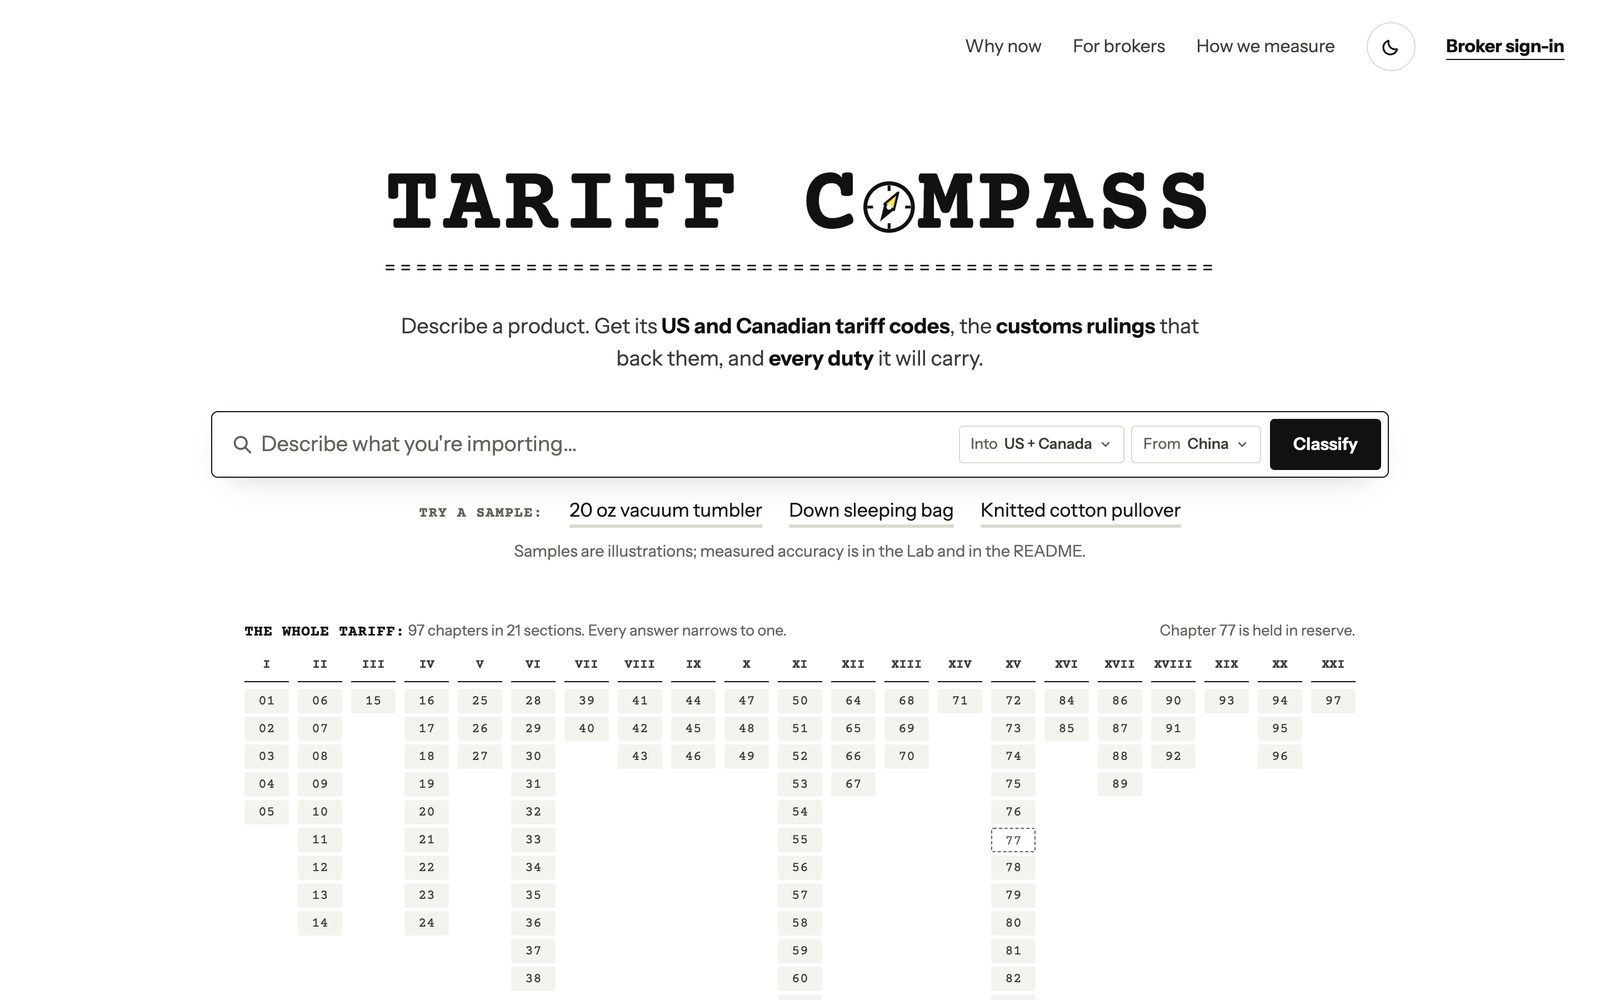
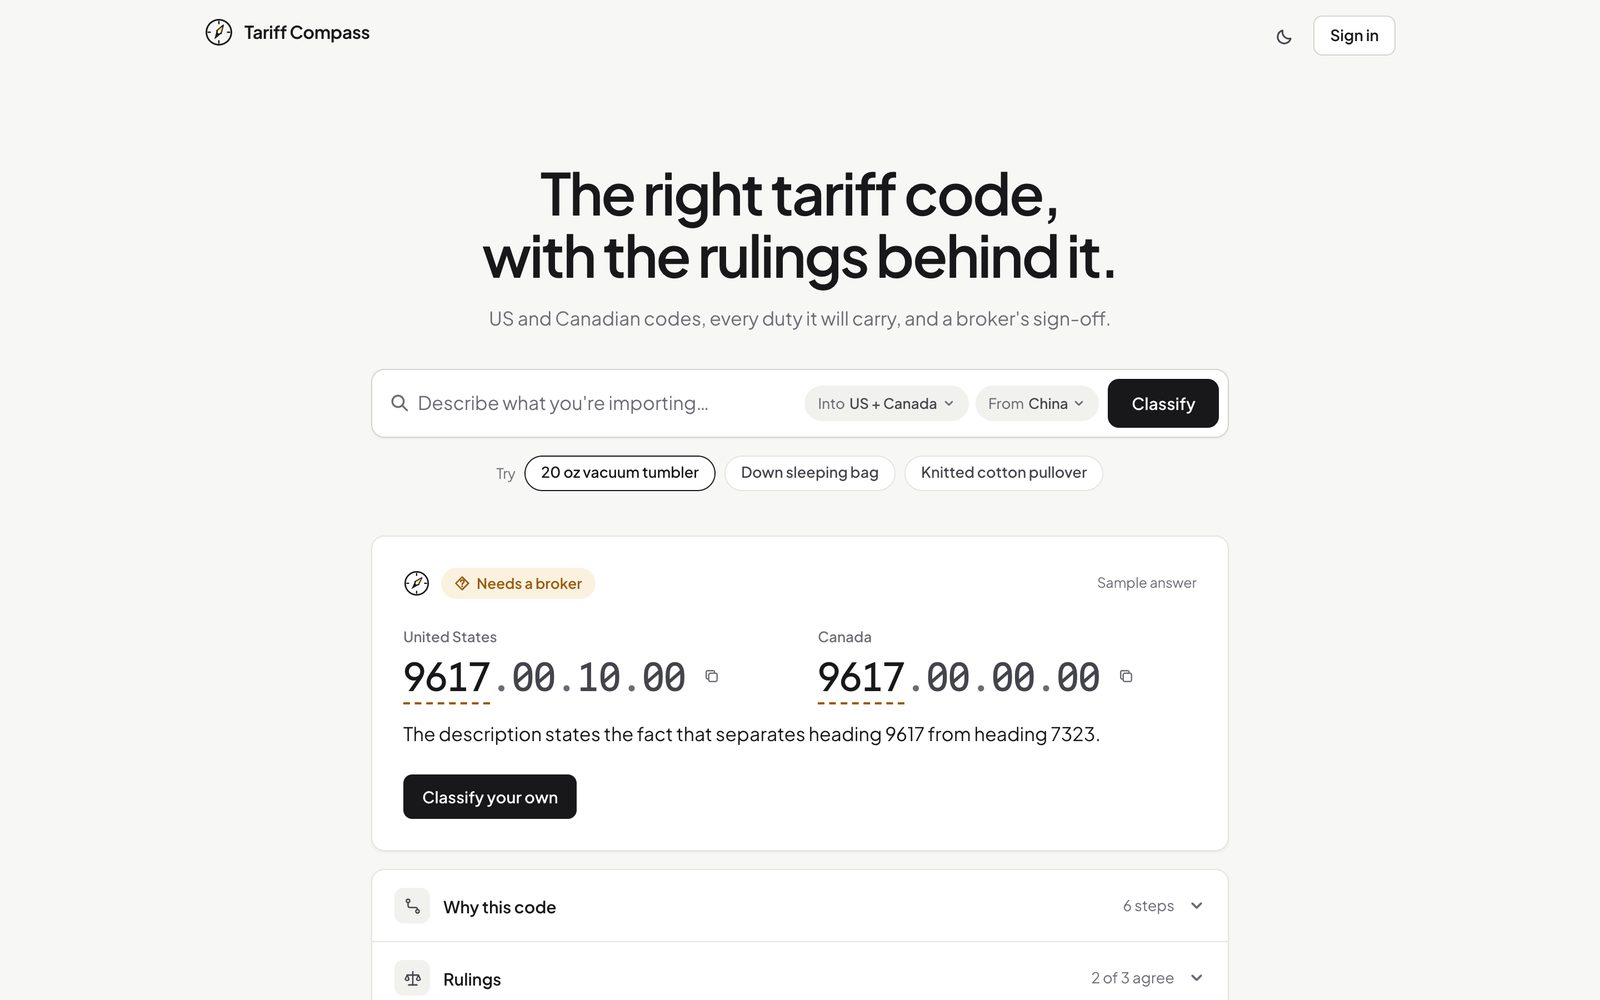
docs: README, screen contract and design notes for the calm redesign, with new screenshots

diff --git a/README.md b/README.md
@@ -4,9 +4,9 @@
 
 **The tariff code for US and Canadian imports, with the customs rulings that back it and every duty it will carry.**
 
-Describe a product and Tariff Compass proposes its ten-digit US and Canadian tariff codes, explains why in the shape
-of a customs ruling letter, cites the real CBP rulings it relies on and lists every duty on the shipment with its
-source and date. When it isn't sure, it says so and sends the product to your broker. Nothing is ever filed for you.
+Describe a product and Tariff Compass proposes its ten-digit US and Canadian tariff codes with one line of why, and
+keeps the detail one click behind it: the classification path, the real CBP rulings it relies on, every duty on the
+shipment with its source and date, the facts and the law text. When it isn't sure, it says so and sends the product to your broker. Nothing is ever filed for you.
 
 [Problem statement](docs/PROBLEM_STATEMENT.md) · [Architecture](docs/ARCHITECTURE.md) · [API contract](docs/API_CONTRACT.md) · [Data](docs/DATA.md) · [Model card](docs/MODEL_CARD.md) · [Evaluation](eval/RESULTS.md) · [Decisions](docs/adr/) · [Design](frontend/DESIGN.md)
 
@@ -43,19 +43,19 @@ Every screen uses the sample organisations (Northbound Goods Co. and Driftwood C
 
 | | |
 |---|---|
-| ![The front page: one box, the 97 chapters of the tariff as the horizon, and three sample products to try without signing in.](docs/screenshots/01-landing.jpg) | ![The answer as a ruling memo, with citation 1 unfolded in place: the ruling's holding and a fact-by-fact comparison with the product.](docs/screenshots/02-answer-citation-drawer.jpg) |
-| **Front page.** One box, the 97 chapters of the tariff as the horizon, and three sample products to try without signing in. | **The answer.** A ruling-shaped memo; citation 1 unfolds in place with the ruling's holding and a fact-by-fact comparison. |
-| ![The landed-cost receipt: each duty layer with its rate, amount, Chapter 99 number, source and effective date; IEEPA lines marked as pending at the Supreme Court.](docs/screenshots/03-landed-cost.jpg) | ![Your product against HQ H303684 side by side: where the facts match and where they differ.](docs/screenshots/04-compare.jpg) |
+| ![The front page: one promise, one box, three sample products and a live sample answer below.](docs/screenshots/01-landing.jpg) | ![The answer with its first cited ruling open in a drawer: the holding and a fact-by-fact comparison with the product.](docs/screenshots/02-answer-citation-drawer.jpg) |
+| **Front page.** One box, three samples to try without signing in, and a live sample answer underneath. | **The answer.** Codes and one line of why first; a cited ruling opens in a drawer with its holding and a fact-by-fact comparison. |
+| ![The landed-cost layer: three totals, one stacked bar and each duty with its rate and amount; IEEPA lines marked as pending at the Supreme Court.](docs/screenshots/03-landed-cost.jpg) | ![Your product against HQ H303684 side by side: where the facts match and where they differ.](docs/screenshots/04-compare.jpg) |
 | **Landed cost.** Every layer with its source and date; the IEEPA lines are marked as pending at the Supreme Court. | **Compare.** Your product against a cited ruling, side by side, fact by fact. |
-| ![A broker corrects a power bank's code digit by digit, with a required reason and what the next training round will learn.](docs/screenshots/05-docket-correction.jpg) | ![The 20 oz tumbler's binder as a revision matrix: four versions, who decided each one and the rulings it relied on.](docs/screenshots/06-binder.jpg) |
-| **Broker docket.** A correction typed digit by digit, with a required reason and what the next round will learn. | **Product binder.** Every version of the code, who decided and on what authority, kept until 10 Feb 2032. |
-| ![The watch bulletin: the pending IEEPA case, 2026 HTSUS Revision 3 and other dated changes, with the products each one touches.](docs/screenshots/07-watch.jpg) | ![The Lab: word matching in use, training rounds 4 to 7 as challengers that didn't pass their checks.](docs/screenshots/08-lab.jpg) |
+| ![A broker corrects a power bank's code digit by digit in the decision drawer, with a required reason and what the next training round will learn.](docs/screenshots/05-docket-correction.jpg) | ![The 20 oz tumbler's binder: the current codes first, then four versions in its history, who decided each one and what changed.](docs/screenshots/06-binder.jpg) |
+| **Review.** A correction typed digit by digit in the decision drawer, with a required reason and what the next round will learn. | **Product binder.** The current code first; every version, who decided and what changed, behind it. |
+| ![Watch: the pending IEEPA case, 2026 HTSUS Revision 3 and other dated changes, with the products each one touches.](docs/screenshots/07-watch.jpg) | ![The Lab: word matching in use, training rounds 4 to 7 as challengers that didn't pass their checks.](docs/screenshots/08-lab.jpg) |
 | **Watch.** Dated changes and the products they touch, the pending IEEPA case first. | **Lab.** What is in use, and every training round measured against it on rulings it hasn't seen. |
 
 ## Features
 
 **Classify.** Type a description, paste a listing, drop a spec sheet (PDF) or a photo, choose *Into* (US, Canada or
-both) and *Made in*. The answer opens with a holding band: the US HTSUS and Canadian Customs Tariff ten-digit codes,
+both) and *Made in*. The answer opens with one card: the US HTSUS and Canadian Customs Tariff ten-digit codes,
 a confidence word (**Strong match** or **Needs a broker**, never a percentage), the one fact that would decide it
 when it is unsure ("Is there a vacuum between the walls, or only air?") and, where a neighbouring code is plausible,
 **Also possible** with the condition under which it would apply and the duty at stake ("US$4,350.00 more in US
@@ -63,12 +63,11 @@ duty and fees on this shipment" if the tumbler has only air between its walls). 
 "Strong match" is held to a strict statistical bar; today word matching never reaches it, so every answer says
 **Needs a broker** and a broker confirms each code.
 
-**The answer as a ruling letter.** Below the codes the memo follows the shape of a CBP ruling: ¶0 *In short*, ¶1
-*Facts* (each with where it came from: your words, the spec sheet, the photo), ¶2 *Issue*, ¶3 *Law and analysis*
-(Section → Chapter → Heading → Subheading → statistical suffix, the General Rule of Interpretation applied at each
-step and why each neighbour was set aside), ¶4 *Landed cost* and ¶5 *Authorities cited*. Every sentence carries
-numbered citations; each opens in place with the ruling's holding, status and a fact-by-fact comparison, and
-**Compare side by side** opens a two-pane view of your product against the letter.
+**The answer first, the detail behind it.** Under the card sit five rows you open as needed: *Why this code*
+(Section → Chapter → Heading → Subheading → statistical suffix, the General Rule of Interpretation at each step and
+why each neighbour was set aside), *Rulings*, *Landed cost*, *Facts* (each with where it came from: your words, the
+spec sheet, the photo) and *Law text*. Sentences carry numbered citations; each opens the ruling in a drawer with its
+holding, status and a fact-by-fact comparison, and **Compare side by side** opens your product against the letter.
 
 **Landed cost.** For each country and the shipment (value, quantity, transport): MFN, Section 301, Section 232 on
 steel and aluminium content, the IEEPA duties, the Merchandise Processing and Harbor Maintenance fees, and in Canada
@@ -82,13 +81,13 @@ holding, and read the US and Canadian tariff as an indented outline with rates b
 
 **Broker docket.** Driftwood's queue of 15 items in the order to work them: unsure answers, answers that differ from
 the last code, products whose ruling changed and always-review rules (lithium cells, steel or aluminium content,
-entries over $25,000). The open row unfolds into a decision record: **approve**, **correct** (type the ten digits
-into a pin input, pick the reason, write the lesson) or **ask the importer**. Keyboard: `J`/`K` move, `A` approve,
+entries over $25,000). A row opens a decision drawer with both proposed codes first: **approve**, **correct** (type
+the ten digits into a pin input, pick the reason, write the lesson) or **ask the importer**. Keyboard: `J`/`K` move, `A` approve,
 `C` correct, `Q` ask. Each correction shows "what the next training round will learn" and joins its training set.
 
-**Product binder.** Each product's history as a revision matrix (proposed → question answered → approved →
-re-checked), with the US and Canadian codes, the evidence, the rulings relied on and who decided, each version
-linked to its entry in the activity record. Download it as a PDF or a ZIP with the evidence. Retention runs five
+**Product binder.** The current US and Canadian codes first, then the history (proposed → question answered →
+approved → re-checked), each version showing who decided, why and only what changed, with the evidence, the entries
+and the tamper-evident record in their own tabs. Download it as a PDF or a ZIP with the evidence. Retention runs five
 years from the latest US entry or six from the latest Canadian import, whichever is longer (the 20 oz tumbler's
 binder is kept until 10 Feb 2032).
 
@@ -139,7 +138,7 @@ signed live. See [Accuracy](#accuracy-measured-on-rulings-it-hasnt-seen).
 ```mermaid
 flowchart LR
   subgraph Browser
-    W["SolidStart web app :3050<br/>front page · answer memo · docket · binder · watch · lab"]
+    W["SolidStart web app :3050<br/>front page · answer · review · binder · watch · lab"]
   end
   W -- "/api same-origin proxy<br/>(cookies, CSRF, SSE)" --> R
 
@@ -185,7 +184,7 @@ carries `X-Tariff-Compass-Now` from the one demo clock. Details and latency budg
 | AI core | **DSPy** 3.5 (five-module program) optimised with **GEPA** 0.1; a deterministic offline LM simulator; Groq, Gemini or OpenRouter free tiers when a key is set |
 | Classical ML | **scikit-learn** 1.9 (TF-IDF, logistic regression, linear SVM, temperature calibration), **LightGBM** 4.7, **Optuna** 5, **MLflow** (local tracking and registry), PSI drift |
 | Documents | pypdf (spec sheets), ReportLab (binder PDF) |
-| Web | **SolidStart** 1.5 (SolidJS, TypeScript), **Ark UI** 5.40 with Park UI-style recipes (`tailwind-variants`), **Tailwind CSS** 4.1, TanStack Table, GSAP Flip; Courier Prime (headings, codes and quoted law, set like a typed ruling letter) and Instrument Sans (reading text and controls), self-hosted |
+| Web | **SolidStart** 1.5 (SolidJS, TypeScript), **Ark UI** 5.40 with Park UI-style recipes (`tailwind-variants`), **Tailwind CSS** 4.1, TanStack Table; Plus Jakarta Sans (headings and text) and Reddit Mono (codes and amounts), self-hosted |
 | Quality | pytest, Ruff, mypy, `tsc`, Vitest, an evaluation harness with gates, GitHub Actions CI |
 
 Pinned versions and why each was chosen: [ADR 0001](docs/adr/0001-toolchain-and-feasibility.md).
@@ -378,7 +377,7 @@ backend/
   tests/
 frontend/src/
   routes/                front page, sign in, answer, rulings, tariff, products, review, watch, lab, settings, activity
-  components/ ui/        answer memo, landed cost, docket, lab report; Ark UI recipes
+  components/ ui/        answer and its layers, landed cost, review drawer, lab report; Ark UI recipes
 eval/                    run.py, gates.toml, hand-checked sets, RESULTS.md
 scripts/                 data fetchers, fixtures, toolchain smoke tests
 docs/                    problem statement, architecture, API contract, data, model card, ADRs, screenshots

diff --git a/docs/API_CONTRACT.md b/docs/API_CONTRACT.md
@@ -21,18 +21,18 @@ menu holds Settings, Activity, Switch organisation and Sign out.
 
 | Route | Screen | Endpoints |
 |---|---|---|
-| `/` | Front page (public): wordmark, box, the 97, sample answers, why-now strip | `GET /meta`, `GET /tariff/sections`, `GET /auth/session`, `GET /public/samples`, `GET /public/samples/{key}`, `POST /public/classify` |
-| `/signin` | Stepped sign-in in the box (email → password → organisation) | `GET /auth/csrf`, `POST /auth/login`, `POST /auth/demo`, `POST /auth/switch-org` |
-| `/home` | Front page signed in: recent classifications + what changed | `GET /home`, `GET /scopes/counts` |
-| `/answer?q=…` | Holding band + memo ¶0–¶5, inline citation drawers, peek, deciding question | `POST /classify`, `GET /answers/{id}`, `POST /answers/{id}/facts`, `POST /evidence`, `POST /landed-cost`, `POST /answers/{id}/save`, `POST /answers/{id}/send-to-broker`, `POST /answers/{id}/citations/{n}/feedback` |
-| `/rulings` | Rulings vertical (status + holding per hit) | `GET /rulings` |
-| `/rulings/[id]` | Two-pane compare: fact alignment + your evidence vs the letter | `GET /rulings/{key}`, `GET /rulings/{key}/compare?answerId=&n=` |
-| `/tariff` | Tariff text as an outline (TreeView) | `GET /tariff/{country}/search`, `GET /tariff/{country}/lines/{code}`, `GET /tariff/sections` |
+| `/` | Front page (public): one box, sample chips, a live sample answer, three feature tiles | `GET /auth/session`, `GET /public/samples`, `GET /public/samples/{key}`, `POST /public/classify` |
+| `/signin` | Stepped sign-in (email → password → organisation), or try as a sample person | `GET /auth/csrf`, `POST /auth/login`, `POST /auth/demo`, `POST /auth/switch-org` |
+| `/home` | Signed-in home: the box, then Recent and Changes as tabs | `GET /home`, `GET /scopes/counts` |
+| `/answer?q=…` | Answer card (codes, word, one line of why, deciding question), then layers: why, rulings, landed cost, facts, law text; the ruling drawer | `POST /classify`, `GET /answers/{id}`, `POST /answers/{id}/facts`, `POST /evidence`, `POST /landed-cost`, `POST /answers/{id}/save`, `POST /answers/{id}/send-to-broker`, `POST /answers/{id}/citations/{n}/feedback` |
+| `/rulings` | Library: rulings (status + subject per hit) | `GET /rulings` |
+| `/rulings/[id]` | A ruling: holding, then tabs Compare (fact table, side by side) · Letter · Related | `GET /rulings/{key}`, `GET /rulings/{key}/compare?answerId=&n=` |
+| `/tariff` | Library: tariff text as an outline (TreeView) | `GET /tariff/{country}/search`, `GET /tariff/{country}/lines/{code}`, `GET /tariff/sections` |
 | `/products` | My products | `GET /products`, `POST /products` |
-| `/products/[sku]` | Binder: revision matrix, foot (evidence, entries, record), exports | `GET /products/{sku}`, `GET /products/{sku}/binder`, `POST /products/{sku}/evidence`, `POST /products/{sku}/binder/export` → job, `GET /exports/{id}/download` |
-| `/review`, `/review/[id]` | Docket; the open row unfolds into the decision record | `GET /review`, `GET /review/{id}`, `POST /review/{id}/lesson`, `POST /review/{id}/approve`, `POST /review/{id}/correct`, `POST /review/{id}/ask`, `POST /review/{id}/answer` |
-| `/watch` | Bulletin of dated changes | `GET /watch`, `GET /watch/{id}`, `POST /watch/scan` → job |
-| `/lab`, `/lab/rounds/[n]` | Rounds strip, report §1–§4, sign-off form + sheet | `GET /lab`, `GET /lab/rounds/{n}`, `POST /lab/rounds` → job, `POST /lab/rounds/{n}/sign` |
+| `/products/[sku]` | Binder: current codes, then tabs History · Evidence · Entries · Record; exports | `GET /products/{sku}`, `GET /products/{sku}/binder`, `POST /products/{sku}/evidence`, `POST /products/{sku}/binder/export` → job, `GET /exports/{id}/download` |
+| `/review`, `/review/[id]` | Review queue; a row opens the decision drawer | `GET /review`, `GET /review/{id}`, `POST /review/{id}/lesson`, `POST /review/{id}/approve`, `POST /review/{id}/correct`, `POST /review/{id}/ask`, `POST /review/{id}/answer` |
+| `/watch` | Dated changes; each opens to what is known and the products it touches | `GET /watch`, `GET /watch/{id}`, `POST /watch/scan` → job |
+| `/lab`, `/lab/rounds/[n]` | In use, rounds, then tabs Accuracy · Confidence · Chapters · Learned · Sign-off | `GET /lab`, `GET /lab/rounds/{n}`, `POST /lab/rounds` → job, `POST /lab/rounds/{n}/sign` |
 | `/settings/*` | Defaults, people and roles, your broker, records, always-review rules | `GET/PATCH /settings`, `GET /org/members`, `PATCH/DELETE /org/members/{id}`, `GET/POST /org/invitations`, `DELETE /org/invitations/{id}`, `GET /roles`, `GET /org/brokers`, `GET/POST /rules`, `PATCH/DELETE /rules/{id}` |
 | `/activity` | Activity record with chain verification | `GET /audit`, `GET /audit/verify`, `GET /audit/export.csv` |
 | (any) | Job progress (training round, export, scan) | `GET /jobs/{id}`, SSE `GET /jobs/{id}/events` |
@@ -222,7 +222,7 @@ EvidenceOut = { id, kind: spec_sheet|photo|listing|supplier_email|other, kindLab
 
 AnswerOut = {
   id, query: ClassifyIn, madeInLabel, createdAt, createdBy, tariffsAsOf, snapshotLabel, sample,
-  us: CodeOut|null, ca: CodeOut|null,                                    # holding band code cards
+  us: CodeOut|null, ca: CodeOut|null,                                    # answer card codes
   verdict: { word: strong|broker, wordLabel: "Strong match"|"Needs a broker", sentence,
              agreeing, cited, inForce, agreementBar: { n, kind: same|contrast|differs }[],
              byDepth: { level: heading|full_code, levelLabel, word, wordLabel }[] },   # word = the full-code word

diff --git a/frontend/DESIGN.md b/frontend/DESIGN.md
@@ -70,7 +70,7 @@ The compass stays as the mark and the loading state: the needle seeks while it r
 ### 5.1 The answer (`/answer`, and the landing's preview)
 - **Question line** (the page title): the question in one line at 22 px, with "Into US + Canada · From China" as small chips; **Edit** reveals the box in place. A new question is asked from the box, which also sits in the Classify page when there is no answer.
 - **Answer card** (white, radius 12, 28 px padding):
-  - Row 1: the verdict badge (● Strong match in green, ◇ Needs a broker in amber; hover lists the word at each depth and the verdict sentence) and the compass (24 px, settles or wavers). Right: the date.
+  - Row 1: the verdict badge (● Confident in green, ◇ Needs a broker in amber; hover lists the word at each depth and the verdict sentence) and the compass (24 px, settles or wavers). Right: the date.
   - Row 2: two code columns, "United States" and "Canada", each a label (13 px) and the code in Reddit Mono 36 px. The four heading digits are ink on a soft highlighter band; the rest are ink-2. A leaning code drops the highlighter and gets a dashed amber underline. A copy button appears on hover/focus.
   - Row 3: the one-line reason (strong: the first reason sentence with its citation numbers; needs a broker: the verdict sentence), 17 px.
   - Needs a broker only: **"Also possible"** one line, and the **deciding question** as a soft amber panel with its answer buttons and "Not sure: send to Driftwood".
@@ -159,7 +159,7 @@ Quiet and short: fades and 4–8 px rises at 160–220 ms (`cubic-bezier(.2,.8,.
 
 ## 10. Copy
 
-Second person to importers, colleague-to-colleague to brokers. No jargon on the surface: "the classifier", "word matching", "training round", "rulings it hasn't seen". Forbidden words from STANDARDS §4 still apply. No percentages for confidence on an answer. Dates come from the server's demo clock.
+Second person to importers, colleague-to-colleague to brokers. No jargon on the surface. The API's words are mapped before display (`lib/words.ts`): "Strong match" reads **Confident**, "word matching" reads **the current method**; hashes and fingerprints sit behind hovers; "Verify the chain" is **Check record**. An answered question shows "You said: …", and option buttons never promise a code. Forbidden words from STANDARDS §4 still apply. No percentages for confidence on an answer. Dates come from the server's demo clock.
 
 ## 11. What did not change (data rules)
 
